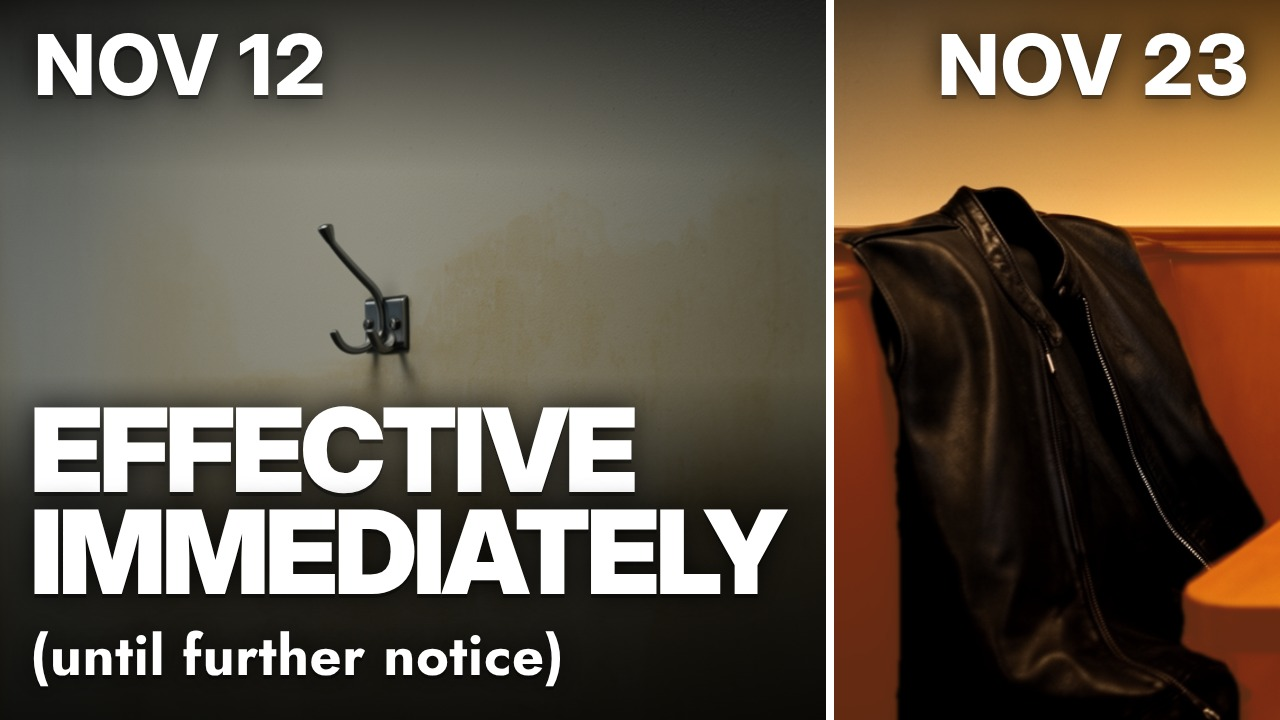
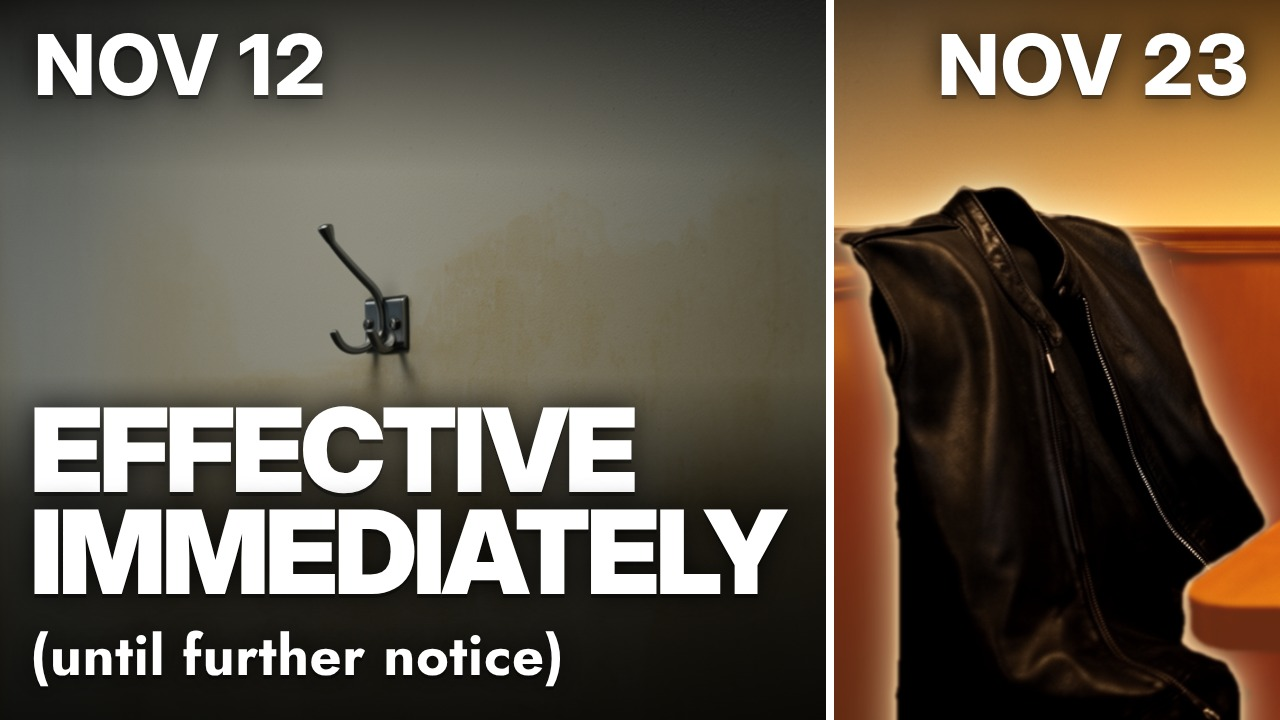
Thumbnail A: a warm glow around the jacket, behind the table
The jacket's mask, blurred at two widths, screened onto the booth; SAM also
cuts the table, which stands in front of the jacket, so the glow goes behind it.

Claude-Session: https://claude.ai/code/session_01U1tVYjiGEW9cMAfzpZKv2H

Changed region(s): [[0.625, 0.2444, 1.0, 1.0], [0.9062, 0.7944, 1.0, 1.0], [0.9375, 0.7639, 0.9688, 0.7944]]

diff --git a/scripts/thumb_jacket.py b/scripts/thumb_jacket.py
@@ -15,12 +15,18 @@ two for the thumbnail only". The plate itself is unchanged; the video never uses
      wall, so "Nov 23" keeps its dark ground.
    - The jacket keeps its own pixels, but less saturated, with deeper shadows and brighter highlights (a power curve
      with gain): a neutral black with its leather sheen, against the orange.
+   - A glow around the jacket (human note: "Use the mask to add a glow around the jacket"): the mask blurred at two
+     widths, a tight halo and a wide soft light, kept outside the jacket and screened onto the booth in a warm white, as
+     if lit from behind. The table stands in front of the jacket's lower right, so SAM cuts it too and the glow goes
+     behind it.
 
 Writes, beside the plate:
-  remotion/public/gen/plates/S03_jacket_mask.png   the mask, 8-bit, plate size
+  remotion/public/gen/plates/S03_jacket_mask.png   the jacket's mask, 8-bit, plate size
+  remotion/public/gen/plates/S03_table_mask.png    the table's (the glow goes behind it)
   remotion/public/gen/plates/S03_thumbA.png        the graded copy that thumbnail A uses
 
-Usage: .venv/bin/python scripts/thumb_jacket.py [--preview out.png]
+Usage: .venv/bin/python scripts/thumb_jacket.py [--preview out.png] [--regrade]
+  --regrade: grade again from the saved masks, without running SAM.
 """
 import argparse
 import hashlib
@@ -43,6 +49,10 @@ BOX = [0, 150, 400, 640]
 JACKET = [(150, 200), (100, 300), (110, 480), (250, 300), (300, 420), (200, 570), (60, 600)]
 NOT_JACKET = [(20, 330), (350, 290), (395, 600), (300, 120), (380, 520), (20, 220)]
 CANDIDATE = 1  # of SAM's three: 0 (score 0.962) spills into the booth's side panel; 1 (0.959) follows the jacket's edge
+# The table stands in front of the jacket's lower right, so the glow goes behind it: SAM cuts the table the same way.
+TABLE_BOX = [310, 335, 1275, 555]
+TABLE = [(700, 450), (400, 515), (1150, 500), (900, 400)]
+NOT_TABLE = [(380, 300), (250, 400), (700, 600), (1400, 400)]
 SMOOTH = 3.0  # px, blur before re-thresholding the mask (smooths SAM's beaded outline)
 CLOSE = 9  # px, morphological closing (the zipper's teeth)
 BOTTOM = 14  # rows: the mask is carried down from this far above the frame's bottom edge
@@ -52,26 +62,37 @@ FEATHER = 1.5  # px, the final edge
 BOOTH_GAIN, BOOTH_SAT = 1.2, 1.15
 LIFT_RGB, LIFT_FROM, LIFT_FULL = (92, 42, 18), 0.26, 0.36
 JACKET_SAT, JACKET_GAMMA, JACKET_GAIN = 0.55, 1.25, 1.15  # deeper shadows, brighter highlights (the sheen)
+# The glow: (blur sigma in plate px, gain, opacity) for the halo and the soft light, and its colour.
+GLOW = [(4.0, 2.2, 0.7), (20.0, 1.7, 0.7)]  # a softer (3, 2.0, 0.55), (16, 1.6, 0.6) was too faint at phone size
+GLOW_RGB = (255, 214, 160)
 
 
-def segment(plate: Image.Image) -> np.ndarray:
+def segment(plate: Image.Image) -> tuple[np.ndarray, np.ndarray]:
+    """The jacket's mask (candidate CANDIDATE) and the table's (best-scored), as 0/1 floats."""
     digest = hashlib.sha256(CHECKPOINT.read_bytes()).hexdigest()
     if digest != CHECKPOINT_SHA256:
         raise SystemExit(f'{CHECKPOINT}: sha256 {digest[:16]}…, expected {CHECKPOINT_SHA256[:16]}…')
     torch.manual_seed(0)
     pred = SamPredictor(sam_model_registry['vit_b'](checkpoint=str(CHECKPOINT)))
     pred.set_image(np.asarray(plate))
-    masks, scores, _ = pred.predict(point_coords=np.array(JACKET + NOT_JACKET, np.float32),
-                                    point_labels=np.array([1] * len(JACKET) + [0] * len(NOT_JACKET)),
-                                    box=np.array(BOX, np.float32), multimask_output=True)
-    print('SAM ViT-B scores %s, kept %d' % (' '.join('%.3f' % s for s in scores), CANDIDATE))
-    return masks[CANDIDATE].astype(np.float32)
+
+    def cut(box, pos, neg):
+        return pred.predict(point_coords=np.array(pos + neg, np.float32), point_labels=np.array([1] * len(pos) + [0] * len(neg)),
+                            box=np.array(box, np.float32), multimask_output=True)
+
+    masks, scores, _ = cut(BOX, JACKET, NOT_JACKET)
+    print('SAM ViT-B, jacket: scores %s, kept %d' % (' '.join('%.3f' % s for s in scores), CANDIDATE))
+    tmasks, tscores, _ = cut(TABLE_BOX, TABLE, NOT_TABLE)
+    best = int(np.argmax(tscores))
+    print('SAM ViT-B, table: scores %s, kept %d' % (' '.join('%.3f' % s for s in tscores), best))
+    return masks[CANDIDATE].astype(np.float32), tmasks[best].astype(np.float32)
 
 
-def refine(m: np.ndarray) -> np.ndarray:
+def refine(m: np.ndarray, to_bottom: bool = True) -> np.ndarray:
     m = (cv2.GaussianBlur(m, (0, 0), SMOOTH) > 0.5).astype(np.uint8)
     m = cv2.morphologyEx(m, cv2.MORPH_CLOSE, cv2.getStructuringElement(cv2.MORPH_ELLIPSE, (CLOSE, CLOSE)))
-    m[-BOTTOM:] = m[-BOTTOM - 1]
+    if to_bottom:
+        m[-BOTTOM:] = m[-BOTTOM - 1]
     return np.clip(cv2.GaussianBlur(m.astype(np.float32), (0, 0), FEATHER), 0, 1)
 
 
@@ -80,28 +101,46 @@ def saturate(rgb: np.ndarray, k: float) -> np.ndarray:
     return grey + (rgb - grey) * k
 
 
-def grade(plate: Image.Image, a: np.ndarray) -> np.ndarray:
+def grade(plate: Image.Image, a: np.ndarray, table: np.ndarray) -> np.ndarray:
     p = np.asarray(plate, np.float32) / 255
     h = p.shape[0]
     ramp = np.clip((np.arange(h) / h - LIFT_FROM) / (LIFT_FULL - LIFT_FROM), 0, 1)[:, None, None]
     lift = np.array(LIFT_RGB, np.float32) / 255 * ramp
     booth = np.clip(saturate(p * BOOTH_GAIN, BOOTH_SAT), 0, 1)
     booth = 1 - (1 - booth) * (1 - lift)  # screen
+    light = glow(a) * (1 - table)  # behind the table, not over it
+    booth = 1 - (1 - booth) * (1 - light[..., None] * np.array(GLOW_RGB, np.float32) / 255)  # screen
     jacket = np.clip(saturate(p, JACKET_SAT), 0, 1) ** JACKET_GAMMA * JACKET_GAIN
     a = a[..., None]
     return np.clip(booth * (1 - a) + jacket * a, 0, 1)
 
 
+def glow(a: np.ndarray) -> np.ndarray:
+    """The glow's strength, 0-1, outside the jacket only: each layer is the mask blurred, raised by its gain (so it is
+    full strength at the edge and falls off outward), times its opacity; the layers combine like light (screen)."""
+    out = np.zeros_like(a)
+    for sigma, gain, opacity in GLOW:
+        layer = np.clip(cv2.GaussianBlur(a, (0, 0), sigma) * gain, 0, 1) * opacity
+        out = 1 - (1 - out) * (1 - layer)
+    return out * (1 - a)
+
+
 def main() -> None:
     ap = argparse.ArgumentParser()
     ap.add_argument('--preview', help='also write the mask over the plate, for checking')
+    ap.add_argument('--regrade', action='store_true', help='grade again from the saved masks, without running SAM')
     args = ap.parse_args()
 
     plate = Image.open(PLATES / 'S03.png').convert('RGB')
-    a = refine(segment(plate))
-    print('mask: %.1f%% of the plate' % (100 * a.mean()))
-    Image.fromarray((a * 255).round().astype(np.uint8)).save(PLATES / 'S03_jacket_mask.png')
-    Image.fromarray((grade(plate, a) * 255).round().astype(np.uint8)).save(PLATES / 'S03_thumbA.png')
+    if args.regrade:
+        a, table = (np.asarray(Image.open(PLATES / f'S03_{k}_mask.png'), np.float32) / 255 for k in ('jacket', 'table'))
+    else:
+        jm, tm = segment(plate)
+        a, table = refine(jm), refine(tm, to_bottom=False)
+        for k, m in (('jacket', a), ('table', table)):
+            Image.fromarray((m * 255).round().astype(np.uint8)).save(PLATES / f'S03_{k}_mask.png')
+    print('masks: jacket %.1f%%, table %.1f%% of the plate' % (100 * a.mean(), 100 * table.mean()))
+    Image.fromarray((grade(plate, a, table) * 255).round().astype(np.uint8)).save(PLATES / 'S03_thumbA.png')
 
     if args.preview:
         p = np.asarray(plate, np.float32)

diff --git a/METADATA.md b/METADATA.md
@@ -11,7 +11,7 @@ YouTube metadata for the main video and the four vertical Shorts, ready to paste
 - **After upload:** put the video's link into the README ("Watch it on YouTube"). Done: https://youtu.be/i5uLYgoSIkk
   (uploaded 2026-11-24), in the README and the Shorts' footer below.
 - **Intervention count.** Update the number in the description if more are logged
-  (`grep -c '^## ' log/human_interventions.md`; 26 on 2026-11-24, after the thumbnail fixes).
+  (`grep -c '^## ' log/human_interventions.md`; 27 on 2026-11-24, after the thumbnail fixes).
 - **Databento's terms** require "Market data provided by Databento" wherever the data is published: it is in the end
   card and in the description below. Keep both.
 
@@ -50,7 +50,7 @@ On November 12, 2026, Nvidia announced that its co-founder had resigned as CEO, 
 WHO HAS A STAKE
 The lyrics were written by Claude, and the video made by Claude Code, both from Anthropic. Nvidia is an Anthropic shareholder: it pledged up to $10bn in 2025 and bought about $10bn of shares alongside Anthropic's November 2026 IPO, and Anthropic runs Claude partly on Nvidia GPUs. Music: Suno, backed by Nvidia's venture arm. Stills: FLUX.2 [dev] (Black Forest Labs, Nvidia-backed). Clips: LTX-2.3 (Lightricks; Nvidia optimized its models, no investment found). All of it ran on the creator's Nvidia RTX 5090, as the opening shows. The creator holds no Nvidia shares directly. The plan was audited on Nov 23, 2026 by ChatGPT (OpenAI, in which Nvidia invested $30bn in 2026) and Gemini (Google, an Nvidia customer that builds rival chips and is a major Anthropic shareholder).
 
-Every frame, note and word was made by AI: the song by Suno, the words by Claude, the pictures by FLUX.2, LTX-2.3 and Blender, the edit by Claude Code. A human approved each stage, edited the master, picked the takes and ran the audits. Each of those 26 interventions is logged, along with every prompt and production step:
+Every frame, note and word was made by AI: the song by Suno, the words by Claude, the pictures by FLUX.2, LTX-2.3 and Blender, the edit by Claude Code. A human approved each stage, edited the master, picked the takes and ran the audits. Each of those 27 interventions is logged, along with every prompt and production step:
 https://github.com/Derivative-Work/effective-immediately
 
 CHAPTERS
@@ -137,7 +137,7 @@ Rendered from `remotion/src/Thumbnail.tsx` (`npx remotion still remotion/src/ind
 
 | Option | Picture | Text | Notes |
 | --- | --- | --- | --- |
-| **A (the human's pick)** | Split: the empty hook (cold, the wider half) and the jacket back in the diner booth (warm), the whole hook and the whole jacket in frame | NOV 12 · NOV 23 at the top of each half; EFFECTIVE / IMMEDIATELY in two lines with (until further notice) under the hook | The whole joke in one frame. The text was enlarged for phones (title 86 → 116 px, the rest 1.8–2.6×) and reads at 168 px wide. The jacket is graded apart from the booth seat (thumbnail only; `scripts/thumb_jacket.py`). |
+| **A (the human's pick)** | Split: the empty hook (cold, the wider half) and the jacket back in the diner booth (warm), the whole hook and the whole jacket in frame | NOV 12 · NOV 23 at the top of each half; EFFECTIVE / IMMEDIATELY in two lines with (until further notice) under the hook | The whole joke in one frame. The text was enlarged for phones (title 86 → 116 px, the rest 1.8–2.6×) and reads at 168 px wide. The jacket is graded apart from the booth seat, with a warm glow behind it (thumbnail only; `scripts/thumb_jacket.py`). |
 | B | The empty hook alone | OUT. EFFECTIVE IMMEDIATELY. · BACK IN 11 DAYS | Starkest; the brief's "empty jacket" idea. |
 | C | The empty counselor's chair, the company in silhouette | WE DID NOT INTEND… (TO TAKE HIM BACK) | The brief's other idea; the lyric as the hook. |
 

diff --git a/log/decisions.md b/log/decisions.md
@@ -330,6 +330,12 @@ Condition (i) rests on Databento's dataset documentation, which says US Equities
       - The first pass used SAM 2.1, which was downloaded for the purpose. The human pointed out that Share the Shares
         already had SAM, so the script was switched and the download deleted.
       - The two masks agree to an IoU of 0.986, and the thumbnails look the same.
+    - **A glow around the jacket (human: "Use the mask to add a glow around the jacket"):**
+      - It's made from the jacket's mask: a tight halo (blur 4 px) and a wide soft light (20 px). The glow stays outside
+        the jacket and is screened onto the booth in a warm white, as if lit from behind.
+      - A softer first try (3 px and 16 px, weaker) was too faint at phone size.
+      - It first washed over the end of the table, which stands in front of the jacket, so SAM cuts the table too and the
+        glow goes behind it.
     - The booth is brightened and its shadows lifted to a warm brown.
     - The jacket is desaturated to a neutral black, with deeper shadows and brighter highlights, so its sheen stays.
     - The mask's edge was checked at 1:1 and at phone sizes. Where the plate has no visible edge (the jacket's lower left,

diff --git a/log/production_log.md b/log/production_log.md
@@ -214,3 +214,9 @@ Append-only. One entry per generation, render or analysis step.
   - **Clean-up:** deleted the SAM 2.1 download from the Hugging Face cache (`models--facebook--sam2.1-hiera-large`,
     857 MB).
   - **Previous version:** `archive/thumbnails/effective_immediately_thumbnail_A_v4_sam21_mask.jpg`.
+- **Thumbnail A, a glow around the jacket (human intervention 27):**
+  - **Script:** `scripts/thumb_jacket.py` gains the glow, a table mask (SAM ViT-B; scores 0.984, 0.987 and 0.980, the
+    best kept; 17.1% of the plate), and `--regrade`, which grades from the saved masks without running SAM.
+  - **Command:** `.venv/bin/python scripts/thumb_jacket.py`, then the same `npx remotion still … Thumb-A …`.
+  - **Checked** at 1:1 and at 360 and 168 px wide.
+  - **Previous version:** `archive/thumbnails/effective_immediately_thumbnail_A_v5_no_glow.jpg`.

diff --git a/log/human_interventions.md b/log/human_interventions.md
@@ -149,3 +149,8 @@ Append-only. Every human action: when, what, and why.
 
 - **What:** "SAM is already in share the shares".
 - **Effect:** `scripts/thumb_jacket.py` uses Share the Shares' SAM ViT-B checkpoint, read in place, instead of a downloaded SAM 2.1. The download was deleted. Decisions 34; thumbnail A re-rendered, with the same look.
+
+## 27. 2026-11-24 — A glow around the jacket
+
+- **What:** "Use the mask to add a glow around the jacket".
+- **Effect:** decisions 34 (thumbnail A, the jacket against the seat). Thumbnail A re-rendered; the video is unchanged.
